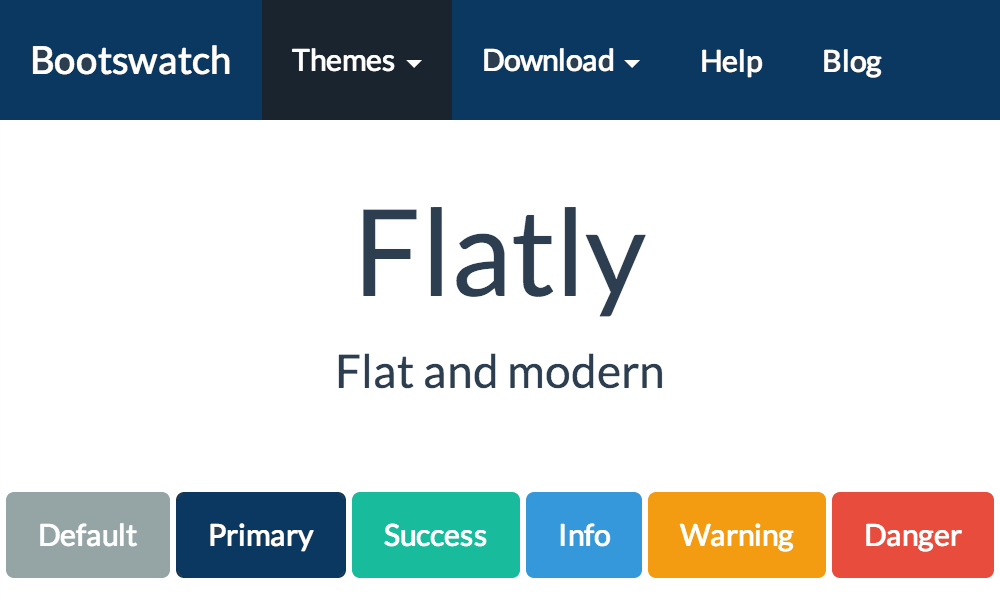
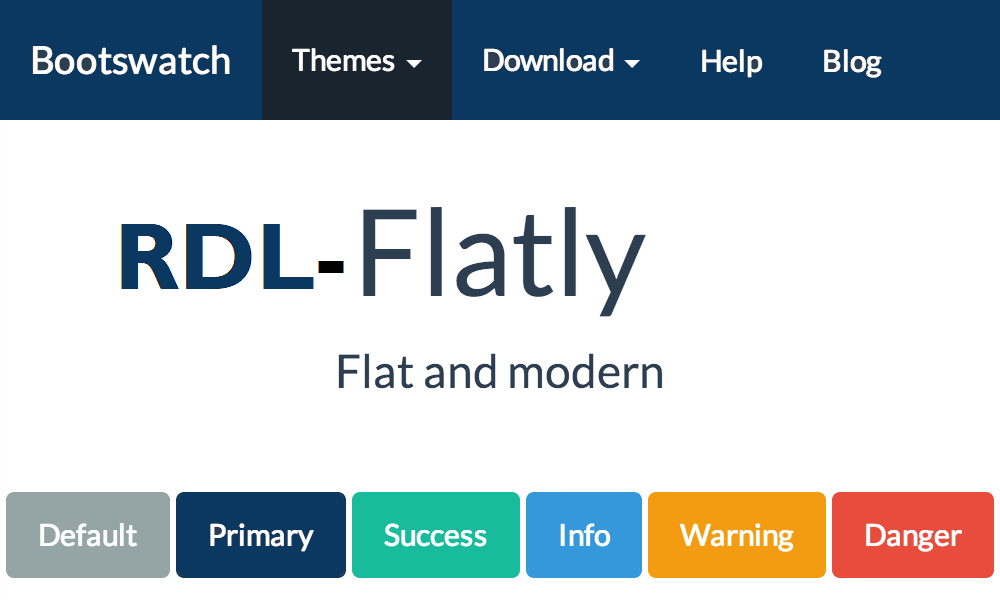
color fix

Changed region(s): [[0.124, 0.36, 0.341, 0.48]]

diff --git a/css/bootstrap.css b/css/bootstrap.css
@@ -1089,7 +1089,7 @@ body {
   font-family: "Lato", "Helvetica Neue", Helvetica, Arial, sans-serif;
   font-size: 15px;
   line-height: 1.42857143;
-  color: #2c3e50;
+  color: #0b3860;
   background-color: #ffffff;
 }
 input,
@@ -1342,7 +1342,7 @@ mark,
   color: #b4bcc2;
 }
 .text-primary {
-  color: #2c3e50;
+  color: #0b3860;
 }
 a.text-primary:hover,
 a.text-primary:focus {
@@ -1378,7 +1378,7 @@ a.text-danger:focus {
 }
 .bg-primary {
   color: #fff;
-  background-color: #2c3e50;
+  background-color: #0b3860;
 }
 a.bg-primary:hover,
 a.bg-primary:focus {
@@ -2506,7 +2506,7 @@ legend {
   margin-bottom: 21px;
   font-size: 22.5px;
   line-height: inherit;
-  color: #2c3e50;
+  color: #0b3860;
   border: 0;
   border-bottom: 1px solid transparent;
 }
@@ -2550,7 +2550,7 @@ output {
   padding-top: 11px;
   font-size: 15px;
   line-height: 1.42857143;
-  color: #2c3e50;
+  color: #0b3860;
 }
 .form-control {
   display: block;
@@ -2559,7 +2559,7 @@ output {
   padding: 10px 15px;
   font-size: 15px;
   line-height: 1.42857143;
-  color: #2c3e50;
+  color: #0b3860;
   background-color: #ffffff;
   background-image: none;
   border: 1px solid #dce4ec;
@@ -2571,7 +2571,7 @@ output {
   transition: border-color ease-in-out .15s, box-shadow ease-in-out .15s;
 }
 .form-control:focus {
-  border-color: #2c3e50;
+  border-color: #0b3860;
   outline: 0;
   -webkit-box-shadow: inset 0 1px 1px rgba(0,0,0,.075), 0 0 8px rgba(44, 62, 80, 0.6);
   box-shadow: inset 0 1px 1px rgba(0,0,0,.075), 0 0 8px rgba(44, 62, 80, 0.6);
@@ -3122,8 +3122,8 @@ fieldset[disabled] .btn-default.focus {
 }
 .btn-primary {
   color: #ffffff;
-  background-color: #2c3e50;
-  border-color: #2c3e50;
+  background-color: #0b3860;
+  border-color: #0b3860;
 }
 .btn-primary:focus,
 .btn-primary.focus {
@@ -3170,11 +3170,11 @@ fieldset[disabled] .btn-primary:focus,
 .btn-primary.disabled.focus,
 .btn-primary[disabled].focus,
 fieldset[disabled] .btn-primary.focus {
-  background-color: #2c3e50;
-  border-color: #2c3e50;
+  background-color: #0b3860;
+  border-color: #0b3860;
 }
 .btn-primary .badge {
-  color: #2c3e50;
+  color: #0b3860;
   background-color: #ffffff;
 }
 .btn-success {
@@ -3569,7 +3569,7 @@ tbody.collapse.in {
 .dropdown-menu > li > a:focus {
   text-decoration: none;
   color: #ffffff;
-  background-color: #2c3e50;
+  background-color: #0b3860;
 }
 .dropdown-menu > .active > a,
 .dropdown-menu > .active > a:hover,
@@ -3577,7 +3577,7 @@ tbody.collapse.in {
   color: #ffffff;
   text-decoration: none;
   outline: 0;
-  background-color: #2c3e50;
+  background-color: #0b3860;
 }
 .dropdown-menu > .disabled > a,
 .dropdown-menu > .disabled > a:hover,
@@ -3907,7 +3907,7 @@ select[multiple].input-group-sm > .input-group-btn > .btn {
   font-size: 15px;
   font-weight: normal;
   line-height: 1;
-  color: #2c3e50;
+  color: #0b3860;
   text-align: center;
   background-color: #ecf0f1;
   border: 1px solid #dce4ec;
@@ -4041,7 +4041,7 @@ select[multiple].input-group-sm > .input-group-btn > .btn {
 .nav-tabs > li.active > a,
 .nav-tabs > li.active > a:hover,
 .nav-tabs > li.active > a:focus {
-  color: #2c3e50;
+  color: #0b3860;
   background-color: #ffffff;
   border: 1px solid #ecf0f1;
   border-bottom-color: transparent;
@@ -4104,7 +4104,7 @@ select[multiple].input-group-sm > .input-group-btn > .btn {
 .nav-pills > li.active > a:hover,
 .nav-pills > li.active > a:focus {
   color: #ffffff;
-  background-color: #2c3e50;
+  background-color: #0b3860;
 }
 .nav-stacked > li {
   float: none;
@@ -4500,7 +4500,7 @@ select[multiple].input-group-sm > .input-group-btn > .btn {
   }
 }
 .navbar-default {
-  background-color: #2c3e50;
+  background-color: #0b3860;
   border-color: transparent;
 }
 .navbar-default .navbar-brand {
@@ -4604,7 +4604,7 @@ fieldset[disabled] .navbar-default .btn-link:focus {
 }
 .navbar-inverse .navbar-brand:hover,
 .navbar-inverse .navbar-brand:focus {
-  color: #2c3e50;
+  color: #0b3860;
   background-color: transparent;
 }
 .navbar-inverse .navbar-text {
@@ -4615,7 +4615,7 @@ fieldset[disabled] .navbar-default .btn-link:focus {
 }
 .navbar-inverse .navbar-nav > li > a:hover,
 .navbar-inverse .navbar-nav > li > a:focus {
-  color: #2c3e50;
+  color: #0b3860;
   background-color: transparent;
 }
 .navbar-inverse .navbar-nav > .active > a,
@@ -4662,7 +4662,7 @@ fieldset[disabled] .navbar-default .btn-link:focus {
   }
   .navbar-inverse .navbar-nav .open .dropdown-menu > li > a:hover,
   .navbar-inverse .navbar-nav .open .dropdown-menu > li > a:focus {
-    color: #2c3e50;
+    color: #0b3860;
     background-color: transparent;
   }
   .navbar-inverse .navbar-nav .open .dropdown-menu > .active > a,
@@ -4682,14 +4682,14 @@ fieldset[disabled] .navbar-default .btn-link:focus {
   color: #ffffff;
 }
 .navbar-inverse .navbar-link:hover {
-  color: #2c3e50;
+  color: #0b3860;
 }
 .navbar-inverse .btn-link {
   color: #ffffff;
 }
 .navbar-inverse .btn-link:hover,
 .navbar-inverse .btn-link:focus {
-  color: #2c3e50;
+  color: #0b3860;
 }
 .navbar-inverse .btn-link[disabled]:hover,
 fieldset[disabled] .navbar-inverse .btn-link:hover,
@@ -4882,7 +4882,7 @@ a.label:focus {
   background-color: #798d8f;
 }
 .label-primary {
-  background-color: #2c3e50;
+  background-color: #0b3860;
 }
 .label-primary[href]:hover,
 .label-primary[href]:focus {
@@ -4927,7 +4927,7 @@ a.label:focus {
   vertical-align: middle;
   white-space: nowrap;
   text-align: center;
-  background-color: #2c3e50;
+  background-color: #0b3860;
   border-radius: 10px;
 }
 .badge:empty {
@@ -4950,7 +4950,7 @@ a.badge:focus {
 }
 .list-group-item.active > .badge,
 .nav-pills > .active > a > .badge {
-  color: #2c3e50;
+  color: #0b3860;
   background-color: #ffffff;
 }
 .list-group-item > .badge {
@@ -5029,7 +5029,7 @@ a.thumbnail.active {
 }
 .thumbnail .caption {
   padding: 9px;
-  color: #2c3e50;
+  color: #0b3860;
 }
 .alert {
   padding: 15px;
@@ -5147,7 +5147,7 @@ a.thumbnail.active {
   line-height: 21px;
   color: #ffffff;
   text-align: center;
-  background-color: #2c3e50;
+  background-color: #0b3860;
   -webkit-box-shadow: inset 0 -1px 0 rgba(0, 0, 0, 0.15);
   box-shadow: inset 0 -1px 0 rgba(0, 0, 0, 0.15);
   -webkit-transition: width 0.6s ease;
@@ -5311,8 +5311,8 @@ button.list-group-item {
 .list-group-item.active:focus {
   z-index: 2;
   color: #ffffff;
-  background-color: #2c3e50;
-  border-color: #2c3e50;
+  background-color: #0b3860;
+  border-color: #0b3860;
 }
 .list-group-item.active .list-group-item-heading,
 .list-group-item.active:hover .list-group-item-heading,
@@ -5693,7 +5693,7 @@ button.list-group-item-danger.active:focus {
   border-color: #ecf0f1;
 }
 .panel-default > .panel-heading {
-  color: #2c3e50;
+  color: #0b3860;
   background-color: #ecf0f1;
   border-color: #ecf0f1;
 }
@@ -5702,28 +5702,28 @@ button.list-group-item-danger.active:focus {
 }
 .panel-default > .panel-heading .badge {
   color: #ecf0f1;
-  background-color: #2c3e50;
+  background-color: #0b3860;
 }
 .panel-default > .panel-footer + .panel-collapse > .panel-body {
   border-bottom-color: #ecf0f1;
 }
 .panel-primary {
-  border-color: #2c3e50;
+  border-color: #0b3860;
 }
 .panel-primary > .panel-heading {
   color: #ffffff;
-  background-color: #2c3e50;
-  border-color: #2c3e50;
+  background-color: #0b3860;
+  border-color: #0b3860;
 }
 .panel-primary > .panel-heading + .panel-collapse > .panel-body {
-  border-top-color: #2c3e50;
+  border-top-color: #0b3860;
 }
 .panel-primary > .panel-heading .badge {
-  color: #2c3e50;
+  color: #0b3860;
   background-color: #ffffff;
 }
 .panel-primary > .panel-footer + .panel-collapse > .panel-body {
-  border-bottom-color: #2c3e50;
+  border-bottom-color: #0b3860;
 }
 .panel-success {
   border-color: #18bc9c;
@@ -6763,7 +6763,7 @@ button.close {
 }
 .navbar-default .badge {
   background-color: #fff;
-  color: #2c3e50;
+  color: #0b3860;
 }
 .navbar-inverse .badge {
   background-color: #fff;
@@ -6785,7 +6785,7 @@ button.close {
 }
 .text-primary,
 .text-primary:hover {
-  color: #2c3e50;
+  color: #0b3860;
 }
 .text-success,
 .text-success:hover {
@@ -7015,11 +7015,11 @@ a.list-group-item-danger.active:focus {
   background-color: #e43725;
 }
 .panel-default .close {
-  color: #2c3e50;
+  color: #0b3860;
 }
 .modal .close {
-  color: #2c3e50;
+  color: #0b3860;
 }
 .popover {
-  color: #2c3e50;
+  color: #0b3860;
 }
